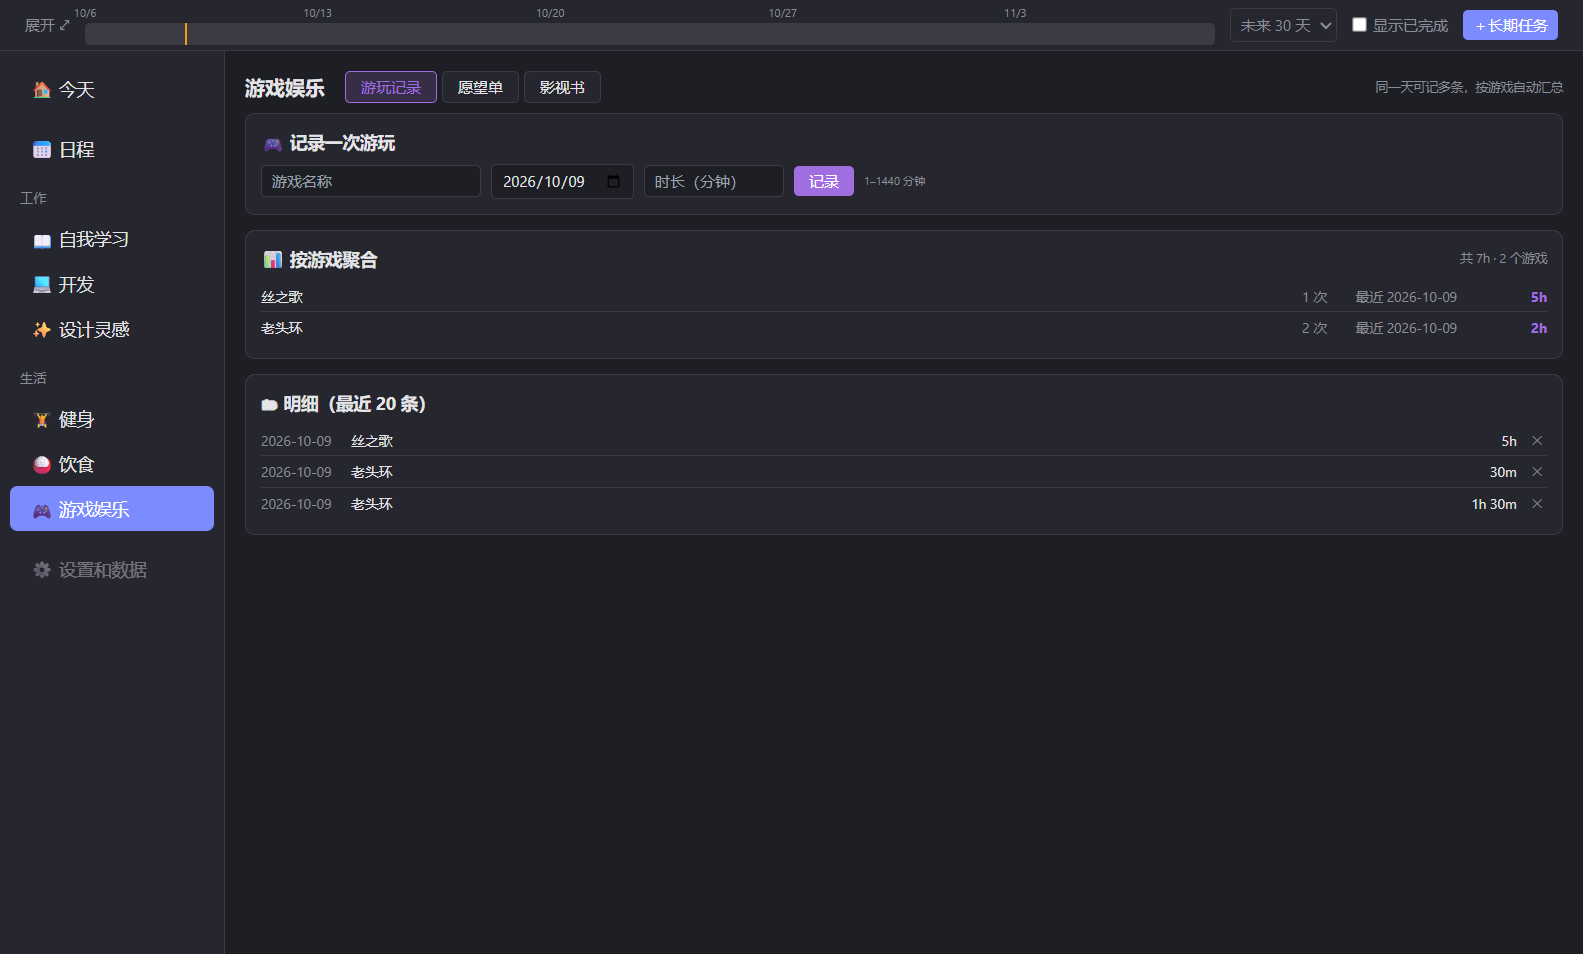
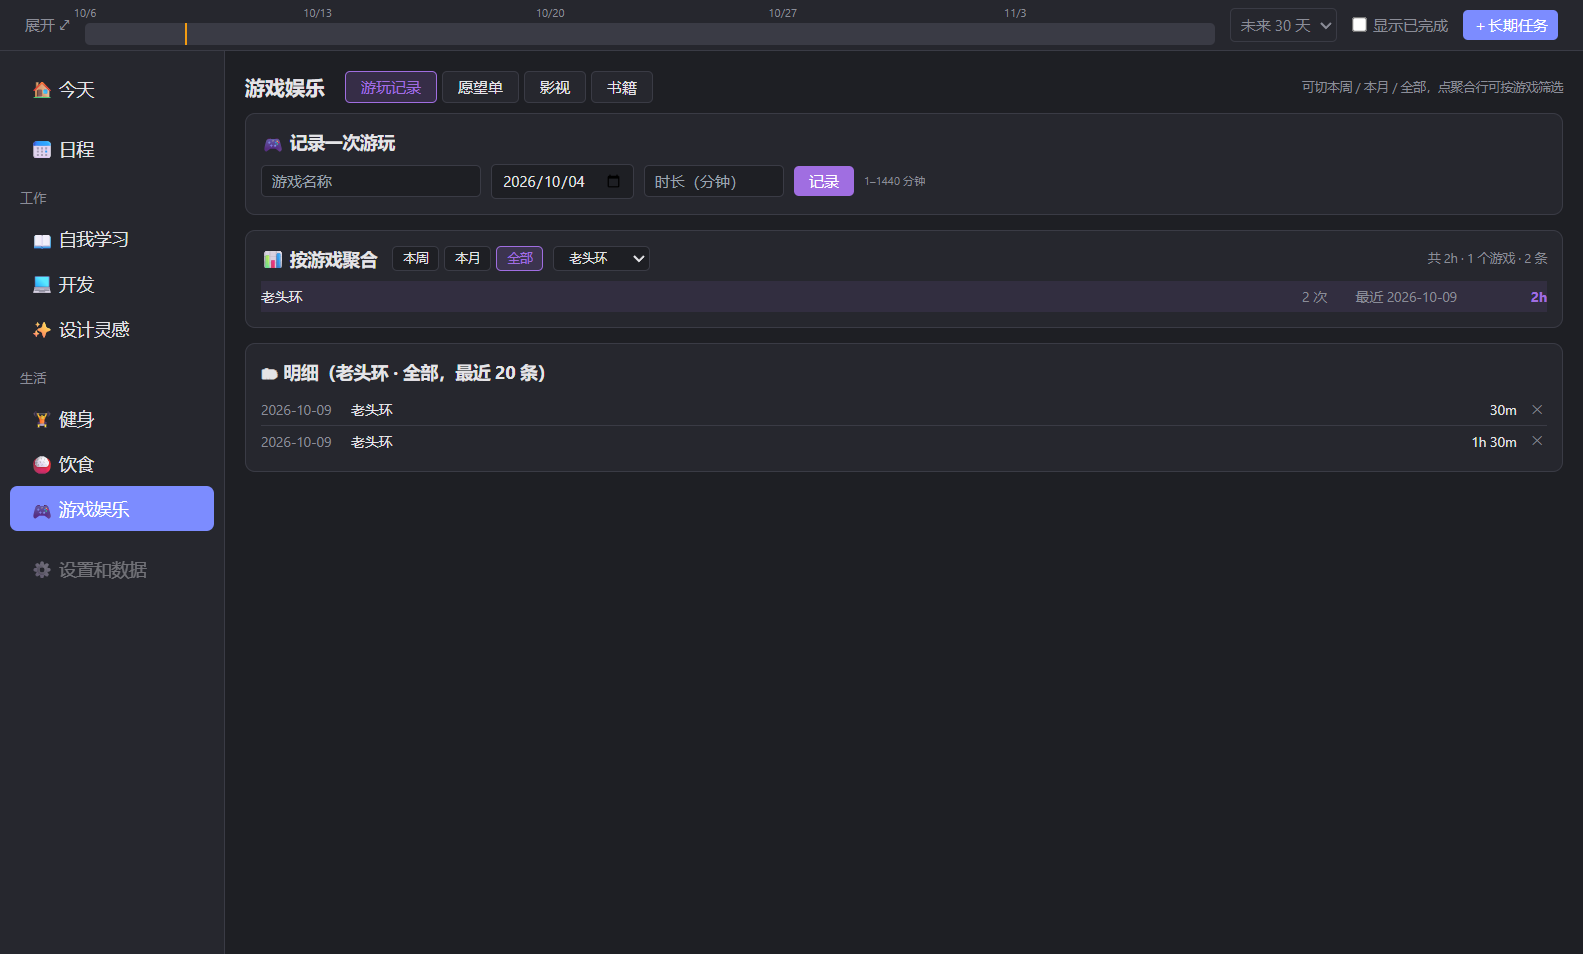
chore(M4): 增强项验收记录 + 全量回归 76/76 + 重拍截图

diff --git a/docs/plans/2026-10-09-m4-3-acceptance.md b/docs/plans/2026-10-09-m4-3-acceptance.md
@@ -4,6 +4,7 @@
 - 计划：[docs/plans/2026-10-09-m4-3-entertainment.md](./2026-10-09-m4-3-entertainment.md)
 - 对应 PRD：4.7 / 8.7.3、界面 PRD L111
 - 上游总览：[docs/plans/2026-10-09-m4-overview.md](./2026-10-09-m4-overview.md)
+- 用户增强要求（2026-10-09 复核截图后提出）：① 游玩记录支持**按周/按月**统计；② 支持**按游戏筛选**；③ **影视与书籍分开**
 
 ## 一、交付物
 
@@ -12,85 +13,87 @@
 | 迁移 | `src/main/db/index.ts` v8 | `plays` / `wishlist` / `media`（含索引） |
 | 类型 | `src/shared/types.ts` | `Play` / `WishItem` / `Media` / `MediaType` / `MediaStatus` + Input/Patch |
 | 纯函数 | `src/shared/entContent.ts` | 枚举与标签：`MEDIA_TYPES` / `MEDIA_STATUSES` / `PRIORITY_LABELS` / `PRIORITY_ORDER` / `clampRating` / `normalizeComment` / `stars` |
-| 纯函数 | `src/shared/entStats.ts` | 聚合：`gameSummaries` / `totalMinutes` / `recentPlays` / `sortWishlist` / `mediaGroups` / `mediaByType` |
+| 纯函数 | `src/shared/entStats.ts` | `gameSummaries` / `totalMinutes` / `recentPlays` / `sortWishlist` / `mediaGroups` / `mediaByType` ＋ **`playRangeBounds`（周/月边界）/ `filterPlays`（区间×游戏）/ `mediaInScope`（影视·书籍）** |
 | 数据层 | `src/main/db/entertainment.ts` | 游玩/愿望单/影视书 CRUD（合并语义更新 + 校验） |
 | IPC | `ipc.ts` / `preload` / `lib/ipc.ts` | 12 条 `ent:*` 通道，三处一致（脚本核对通过） |
-| 状态 | `src/renderer/src/stores/entertainmentStore.ts` | 三组数据 + 页签状态 + `LatestGuard` + 统一错误处理 |
-| 界面 | `components/entertainment/*` | `EntertainmentPage` / `PlayLog` / `Wishlist` / `MediaList` / `StarRating` |
+| 状态 | `src/renderer/src/stores/entertainmentStore.ts` | 三组数据 + **四页签状态**（`plays` / `wishlist` / `screen` / `book`）+ `LatestGuard` + 统一错误处理 |
+| 界面 | `components/entertainment/*` | `EntertainmentPage` / `PlayLog`（区间切换 + 游戏筛选）/ `Wishlist` / `MediaList`（按 scope 分离影视与书籍）/ `StarRating` |
 | 接线 | `App.tsx` / `Sidebar.tsx` | 侧边栏「游戏娱乐」解除 disabled 并挂载页面 |
-| 验收 | `scripts/acceptance/m4-3-e2e.mjs` | CDP 端到端脚本，19 项断言 |
+| 验收 | `scripts/acceptance/m4-3-e2e.mjs` | CDP 端到端脚本，22 项断言 |
 
 ## 二、自动化结果
 
 ```
-npm test              41 文件 / 725 用例全绿   （M4-2 结束时：38 文件 / 668）
+npm test              41 文件 / 738 用例全绿   （M4-2 结束时：38 文件 / 668）
 npm run typecheck     0 错误
 npm run build         三入口通过
 npx electron-builder  release/LifeOS Setup 0.1.0.exe
 ```
 
-本阶段新增 **57 个用例**：迁移 v8 4、枚举与展示换算 10、聚合纯函数 15、数据层 28。
+本阶段新增 **70 个用例**：迁移 v8 4、枚举与展示换算 10、聚合与筛选纯函数 28、数据层 28。
 
 ## 三、端到端界面验证（CDP 驱动）
 
-脚本：`scripts/acceptance/m4-3-e2e.mjs`；截图：`docs/acceptance-shots/37~39`。
+脚本：`scripts/acceptance/m4-3-e2e.mjs`；截图：`docs/acceptance-shots/37~39`、`41`。
 
 | # | 验证项 | 结果 |
 |---|---|---|
-| 1 | 侧边栏「游戏娱乐」可进入（导航已启用） | ✅ |
-| 2 | 「游玩记录」页签可切换，空状态提示正常 | ✅ |
-| 3 | 切到「愿望单」页签（空状态正常） | ✅ |
-| 4 | 切到「影视书」页签，三个状态分组齐全 | ✅ |
-| 5 | 记录一条游玩（90 分钟） | ✅ |
-| 6 | **按游戏自动聚合计总时长**：90 + 30 = 120 分钟、2 次、显示 `2h` | ✅ |
-| 7 | 明细列出两条记录 | ✅ |
-| 8 | 聚合按总时长降序（丝之歌 300 > 老头环 120） | ✅ |
-| 9 | 顶部累计时长 420 分钟（7h） | ✅ |
-| 10 | 删除一条后聚合同步（120 − 30 = 90 分钟、1 次） | ✅ |
-| 11 | **愿望单按优先级排序**（高 → 中 → 低） | ✅ |
-| 12 | 愿望单计数正确 | ✅ |
-| 13 | 调整优先级后重新排序（低→高 后：高高中） | ✅ |
-| 14 | **影视书记录五星评分与短评**（4 星 + 短评入库与展示） | ✅ |
-| 15 | 表单评分默认 0（未评分） | ✅ |
-| 16 | **影视书按状态分组**（看完/在看/想看 各 1） | ✅ |
-| 17 | 再点同一颗星清零（回到未评分 0） | ✅ |
-| 18 | 刷新后游玩记录与聚合仍在（持久化） | ✅ |
-| 19 | 脚本可重复运行（开头清理既有数据） | ✅ |
+| 1 | 侧边栏可进入，**四个页签**（游玩记录 / 愿望单 / 影视 / 书籍） | ✅ |
+| 2 | 「游玩记录」页签可切换，空状态正常 | ✅ |
+| 3 | 「愿望单」页签可切换（空状态正常） | ✅ |
+| 4 | 「影视」页签三个状态分组齐全，**类型下拉只有电影/剧集** | ✅ |
+| 5 | 「书籍」页签**类型下拉只有书籍** | ✅ |
+| 6 | **默认按本周统计**（90 + 30 = 120 分钟，仅 1 个游戏） | ✅ |
+| 7 | 切「本月」：纳入本月但非本周的记录（120 → 180） | ✅ |
+| 8 | 切「全部」：跨月记录一并计入（→ 480，含上月丝之歌） | ✅ |
+| 9 | 「全部」下聚合按总时长降序（丝之歌 300 在前） | ✅ |
+| 10 | **按游戏筛选**：聚合与明细只剩该游戏，总时长同步（120） | ✅ |
+| 11 | 筛选可清除（回到全部游戏，480） | ✅ |
+| 12 | **点击聚合行即可筛选**（再次点击取消） | ✅ |
+| 13 | 删除一条后聚合同步（老头环 120 → 90，总时长 480 → 450） | ✅ |
+| 14 | 愿望单按优先级排序（高 → 中 → 低） | ✅ |
+| 15 | 影视页签**只含电影与剧集**（2 条，无书籍） | ✅ |
+| 16 | 影视记录五星评分与短评（4 星 + 短评入库与展示） | ✅ |
+| 17 | **书籍页签与影视分开**：新建后书籍栏为空（影视不串栏） | ✅ |
+| 18 | 书籍栏只含书籍，评分与短评正常 | ✅ |
+| 19 | 回到影视页签，书籍没有混进来（仍 2 条） | ✅ |
+| 20 | 再点同一颗星清零（回到未评分 0） | ✅ |
+| 21 | 刷新后游玩/愿望单/影视书籍数据仍在，页签结构保持 | ✅ |
+| 22 | 脚本可重复运行（开头清理既有数据） | ✅ |
 
-**19 / 19 通过。**
+**22 / 22 通过。**
 
-## 四、PRD 8.7.3 逐条对照
+## 四、PRD 8.7.3 + 用户增强要求 逐条对照
 
 | 验收项 | 证据 | 状态 |
 |---|---|---|
-| 游玩记录按游戏聚合计总时长 | `gameSummaries` 15 用例 + E2E 第 6/8/10 项 | ✅ |
-| 愿望单（游戏 + 优先级） | `sortWishlist` 用例 + 数据层 28 用例 + E2E 第 11/13 项 | ✅ |
-| 影视书记录（评分、短评） | `clampRating`/`stars` 10 用例 + E2E 第 14/17 项 | ✅ |
-| 三页签界面 | 截图 37~39 + E2E 第 2–4 项 | ✅ |
+| 游玩记录按游戏聚合计总时长 | `gameSummaries` 用例 + E2E 第 8/9 项 | ✅ |
+| 愿望单（游戏 + 优先级） | `sortWishlist` 用例 + E2E 第 14 项 | ✅ |
+| 影视书记录（评分、短评） | `clampRating`/`stars` 用例 + E2E 第 16/20 项 | ✅ |
+| **① 按周/按月统计** | `playRangeBounds` 3 组用例（含跨月、闰年 2 月）+ E2E 第 6–8 项 | ✅ |
+| **② 按游戏筛选** | `filterPlays` 7 组用例（区间×游戏叠加、空值不筛）+ E2E 第 10–12 项 | ✅ |
+| **③ 影视与书籍分开** | `mediaInScope` 用例 + E2E 第 4/5/15/17/18/19 项 | ✅ |
 | 不做游戏库（设计 §6.7 明确） | 未实现，符合非目标 | ✅ |
 
 ## 五、与设计文档的偏差（需 M5 回写）
 
-1. `plays.minutes` 校验为 **1–1440 整数**（一天最多 24 小时），避免误填造出天文数字总时长。
-2. `media.rating` 为 **0–5 整数**，`0` 表示"未评分"，与五星组件的空态一致（设计文档只写"评分"）。
-3. 按游戏聚合**大小写敏感**：`Elden Ring` 与 `elden ring` 视为两个游戏，不自作主张合并用户输入（分组前仅去首尾空白）。
-4. 游玩记录聚合**跨全部历史**（不按日期区间裁剪），因为 PRD 要求的是"按游戏自动聚合计总时长"。
+1. **页签由 3 个变 4 个**：设计 §5.8 / PRD L111 为「游玩记录 \| 愿望单 \| 影视书」，按用户 2026-10-09 的要求拆成「游玩记录 \| 愿望单 \| **影视** \| **书籍**」，每栏内的类型下拉相应限定。
+2. 游玩统计**默认区间为「本周」**（原为全历史聚合）；「全部」一键可回到全量。工作台以"今天"为中心，本周是更常用的复盘窗口。
+3. `plays.minutes` 校验为 **1–1440 整数**；`media.rating` 为 **0–5 整数**（0 = 未评分）；按游戏聚合**大小写敏感**（分组前仅去首尾空白）。
 
 ## 六、过程中的问题与修正
 
-1. **E2E 断言写错两处（非产品缺陷）**：
-   - "删除一条 → 聚合同步"误以为明细第一行是老头环；实际明细按「日期倒序、同日 id 倒序」，第一行是最后录入的丝之歌。改为按文本定位老头环那条再删，并断言 120 → 90、2 次 → 1 次。
-   - "调整优先级后重新排序"期望 `[high, high, low]`，实际 `[high, high, mid]` —— 把 low 提到 high 后，剩下的 mid 自然排到第三，**产品行为正确**，是断言写错。
-2. **CDP 顶层 `await` 不被支持**：`evaluate("(await window.lifeos...)")` 报 `SyntaxError: Unexpected identifier 'window'`，需包成 `(async () => ...)()`。已在脚本中统一。
-3. **页签状态的进程内残留**：`tab` 存在 zustand store 里，上一轮脚本结束时停在「影视书」，重跑时"默认停在游玩记录"会假失败。改为显式切回「游玩记录」再断言，保证脚本可重复运行。
+1. **E2E 断言算错三处（非产品缺陷）**：① 按游戏筛选时期望 180 分钟，实为 120（把另一游戏的记录算进了老头环）；② 删除一条后总时长期望 390，实为 450（明细首行是 30 分钟那条，不是 90 分钟那条）；③ 影视页签的类型顺序随状态分组变化（doing 在前 → `series,movie`），断言改为排序后比较。三处都是"产品对、断言错"，修正断言后 22/22。
+2. **M4-2 的教训再次生效**：所有被断言的数据属性都直接携带数值（`data-range-minutes`、`data-media-total`、`data-media-type-row`），不依赖 `innerText` 解析。
 
 ## 七、仍待人工确认
 
-1. 界面观感：截图 `docs/acceptance-shots/37~39`（三页签、聚合表、星级与分组）。
-2. 游玩记录的"聚合 + 明细"双列表是否够用；是否需要按游戏筛选明细、或按周/月切换统计区间（当前聚合为全历史）。
-3. 影视书目前只按**状态**分组，未按类型分组（`mediaByType` 纯函数已就绪，界面暂未用）。是否需要加"类型筛选"待确认。
+1. 界面观感：截图 `37-m4-ent-plays.png`（区间按钮 + 游戏下拉 + 聚合行可点筛选）、`39-m4-ent-screen.png`、`41-m4-ent-books.png`。
+2. 默认区间选「本周」是否符合使用习惯（可一键切「全部」；如希望默认全量，改一处初始值即可）。
+3. 筛选入口有两个（下拉 + 点聚合行），是否需要保留两个，或只留其一。
+4. 影视/书籍两栏各自按状态分组（想看/在看/看完），是否需要再加类型内的二级筛选。
 
 ## 八、对后续阶段的输出
 
-- **M4-4「今天」页卡片**：PRD L89 明确游戏娱乐**无**今日卡片，因此 M4-4 只需接健身与饮食两张卡；本模块的 store/纯函数不参与卡片聚合。
-- **M5 设置与数据**可复用：`clampRating`/`normalizeComment` 的"入库前统一换算"写法、三页签组件的 `data-tab` 钩子与状态存放位置（store 而非组件，跨挂载保持）。
+- **M4-4「今天」页卡片**：PRD L89 明确游戏娱乐**无**今日卡片，本模块不参与卡片聚合。
+- **M5 设置与数据**可复用：`playRangeBounds` 的"周/月边界"纯函数可直接服务设置页的统计区间、以及未来的报表；`mediaInScope` 展示了"用 scope 参数复用同一个列表组件"的写法。

diff --git a/docs/plans/2026-10-09-m4-acceptance.md b/docs/plans/2026-10-09-m4-acceptance.md
@@ -16,22 +16,22 @@
 |---|---|---|---|---|---|
 | M4-1 | 健身：一周编排 / 打卡 / 体重体脂曲线 / 周统计 / 打卡历史 | v6 | 12 条 `fit:*` | +90 | 22/22 |
 | M4-2 | 饮食：三餐+加餐 / 食物营养 / 每日合计 / 未来 14 天计划横条 | v7 | 8 条 `diet:*` | +50 | 20/20 |
-| M4-3 | 游戏娱乐：游玩聚合 / 愿望单 / 影视书星级短评 | v8 | 12 条 `ent:*` | +57 | 19/19 |
+| M4-3 | 游戏娱乐：游玩聚合（**按周/月/全部切换 + 按游戏筛选**）/ 愿望单 / **影视与书籍分栏**（星级短评） | v8 | 12 条 `ent:*` | +70 | 22/22 |
 | M4-4 | 「今天」页健身 + 饮食卡片接线与跳转 | — | 复用 | — | 12/12 |
-| **合计** | | v6–v8 | **32 条** | **+197** | **73/73** |
+| **合计** | | v6–v8 | **32 条** | **+210** | **76/76** |
 
 侧边栏「生活」组三个模块（健身 / 饮食 / 游戏娱乐）全部解除 disabled 并可用。
 
 ## 二、自动化结果
 
 ```
-npm test              41 文件 / 725 用例全绿      （M4 开工前：32 文件 / 528）
+npm test              41 文件 / 738 用例全绿      （M4 开工前：32 文件 / 528）
 npm run typecheck     0 错误
 npm run build         三入口通过
-npx electron-builder  release/LifeOS Setup 0.1.0.exe（109.68 MB）
+npx electron-builder  release/LifeOS Setup 0.1.0.exe（109.69 MB）
 ```
 
-M4 期间新增 **197 个用例**，测试文件从 32 → 41。
+M4 期间新增 **210 个用例**，测试文件从 32 → 41。
 
 ## 三、全量回归（M4 四阶段一次性跑通）
 
@@ -42,13 +42,13 @@ Stage              Pass Total
 ----              ---- -----
 M4-1 fitness         22    22
 M4-2 diet            20    20
-M4-3 entertainment   19    19
+M4-3 entertainment   22    22
 M4-4 today cards     12    12
 
-TOTAL: 73 / 73
+TOTAL: 76 / 76
 ```
 
-截图：`docs/acceptance-shots/31~40`（健身 3 张、饮食 3 张、游戏娱乐 3 张、今日卡片 1 张）。
+截图：`docs/acceptance-shots/31~41`（健身 3 张、饮食 3 张、游戏娱乐 4 张、今日卡片 1 张）。
 
 ## 四、PRD 8.7 逐条对照
 
@@ -62,8 +62,10 @@ TOTAL: 73 / 73
 | 每餐可录入多食物及热量营养 | M4-2 E2E 第 5 项 | ✅ |
 | 每日合计正确 | M4-2 E2E 第 7/8/10/12 项 | ✅ |
 | 饮食计划可编排未来日期 | M4-2 E2E 第 13–15/18/19 项 | ✅ |
-| 游玩记录按游戏聚合计总时长 | M4-3 E2E 第 6/8/10 项 | ✅ |
-| 愿望单、影视书记录（评分、短评）正常 | M4-3 E2E 第 11/13/14/17 项 | ✅ |
+| 游玩记录按游戏聚合计总时长 | M4-3 E2E 第 8/9/13 项 | ✅ |
+| 愿望单、影视书记录（评分、短评）正常 | M4-3 E2E 第 14/16/20 项 | ✅ |
+| 用户增强：游玩按周/月切换 + 按游戏筛选 | M4-3 E2E 第 6–12 项 | ✅ |
+| 用户增强：影视与书籍分开 | M4-3 E2E 第 4/5/15/17/18/19 项 | ✅ |
 | 「今天」页卡片与模块数据联动正确（8.3.4） | M4-4 E2E 全部 12 项 | ✅ |
 
 ## 五、全局约束遵守情况
@@ -91,15 +93,19 @@ TOTAL: 73 / 73
 | 8 | `plays.minutes` 校验 1–1440 整数 | 防止误填造出天文数字总时长 |
 | 9 | `media.rating` 为 0–5 整数，0 = 未评分 | 与五星组件空态一致 |
 | 10 | 按游戏聚合大小写敏感，不隐式合并 | 不改写用户输入的游戏名 |
+| 11 | **游戏娱乐页签由 3 个改为 4 个**（游玩记录 \| 愿望单 \| 影视 \| 书籍） | 用户 2026-10-09 复核后要求"把影视和书分开" |
+| 12 | 游玩统计**默认区间为「本周」**，可切本月/全部 | 工作台以"今天"为中心，本周是更常用的复盘窗口（用户要求加区间后定的默认值） |
 
 ## 七、仍待人工确认（汇总）
 
-1. **界面观感**：截图 `docs/acceptance-shots/31~40` 共 10 张，覆盖三个模块与「今天」页卡片。
+1. **界面观感**：截图 `docs/acceptance-shots/31~41` 共 11 张，覆盖三个模块与「今天」页卡片。
 2. **体重/体脂双线呈现**：各自独立归一化，只有两个数据点时两条线必然重合（M4-1 记录）。
-3. **计划横条密度**：饮食计划横条展示未来 14 天，是否合适（可改 7 天 + 翻页）。
+3. **饮食计划横条密度**：展示未来 14 天，是否合适（可改 7 天 + 翻页）。
 4. **饮食"周模板"**：目前"提前规划某周的餐食"通过逐天编排满足，是否需要一次性套用一周模板。
-5. **游戏娱乐明细筛选**：游玩聚合为全历史，暂不支持按周/月切换或按游戏筛选明细。
-6. **影视书类型筛选**：`mediaByType` 纯函数已就绪，界面暂只按状态分组。
+5. **游玩统计默认区间**：现为「本周」（可一键切「全部」）；若不希望默认收窄，改一处初始值即可。
+6. **筛选入口重复**：游玩记录同时提供"游戏下拉"与"点聚合行筛选"两个入口，是否只保留其一。
+
+> 已由用户 2026-10-09 复核并要求实现、且已完成的两项：游玩按周/月统计、影视与书籍分开（见 M4-3 验收记录第四节）。
 
 ## 八、对 M5 的输入
 
